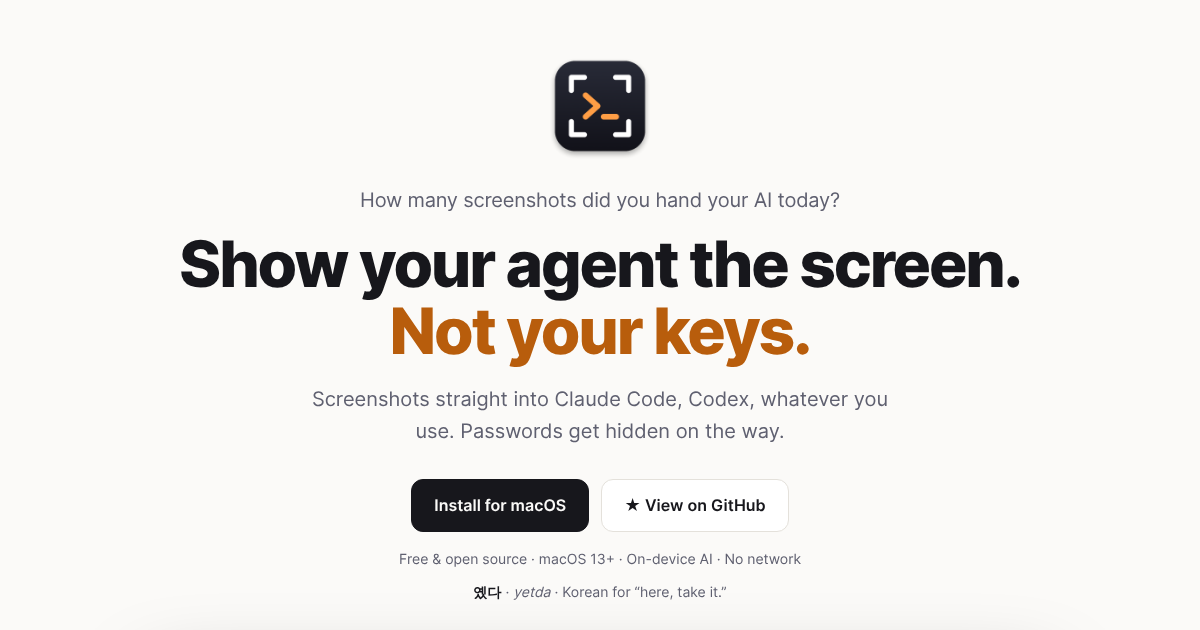
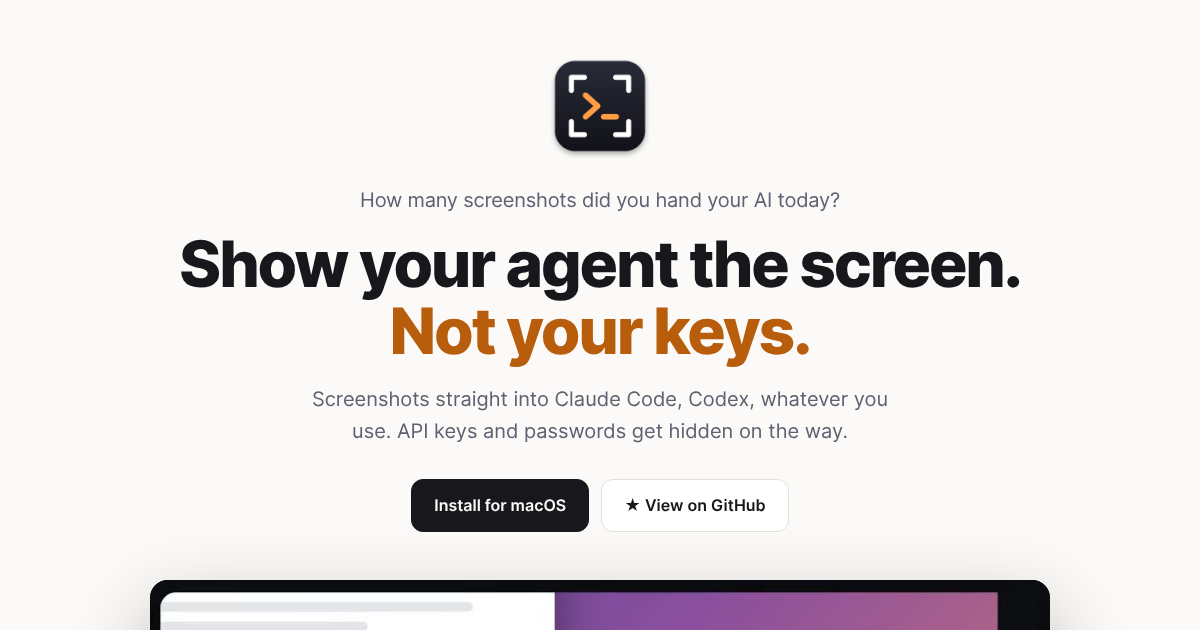
Name API keys in the hero and the secrets section
Claude-Session: https://claude.ai/code/session_01Fvs9D4jfzzeqk41wXqDAkK

Changed region(s): [[0.1233, 0.8746, 0.8942, 1.0], [0.2775, 0.6635, 0.7092, 0.6937]]

diff --git a/docs/ja/index.html b/docs/ja/index.html
@@ -380,7 +380,7 @@
     <img class="logo" src="../icon.png" alt="Yetdaのアイコン">
     <p class="hook">今日、AIに何枚スクショを渡しましたか？</p>
     <h1>画面は見せて、<br><span class="hl">鍵は隠す。</span></h1>
-    <p class="sub">Claude CodeでもCodexでも、スクショをそのまま貼れるMacアプリ。パスワードは自動で隠します。</p>
+    <p class="sub">Claude CodeでもCodexでも、スクショをそのまま貼れるMacアプリ。APIキーやパスワードは自動で隠します。</p>
     <div class="cta">
       <a class="btn primary" href="#install">macOSにインストール</a>
       <a class="btn" href="https://github.com/woonmayer/yetda">★ GitHubで見る</a>
@@ -405,7 +405,7 @@
 
   <section id="secrets" class="show">
     <h2>パスワードは隠します。</h2>
-    <p class="lead">Macの中で、渡す前に。</p>
+    <p class="lead">APIキーが写っていても大丈夫。Macの中で先に隠します。</p>
     <video class="clip v" data-src="../clip-mask.mp4" poster="../clip-mask-poster.jpg" muted loop playsinline preload="none" aria-hidden="true"></video>
   </section>
 

diff --git a/docs/ko/index.html b/docs/ko/index.html
@@ -380,7 +380,7 @@
     <img class="logo" src="../icon.png" alt="Yetda 아이콘">
     <p class="hook">오늘 AI한테 스크린샷 몇 장 넘기셨어요?</p>
     <h1>옜다, 화면.<br><span class="hl">비번은 빼고.</span></h1>
-    <p class="sub">Claude Code든 Codex든, 스크린샷을 바로 붙여 주는 맥 앱. 비번은 알아서 가려요.</p>
+    <p class="sub">Claude Code든 Codex든, 스크린샷을 바로 붙여 주는 맥 앱. API 키·비번은 알아서 가려요.</p>
     <div class="cta">
       <a class="btn primary" href="#install">macOS에 설치</a>
       <a class="btn" href="https://github.com/woonmayer/yetda">★ GitHub에서 보기</a>
@@ -405,7 +405,7 @@
 
   <section id="secrets" class="show">
     <h2>비번은 알아서 가려요.</h2>
-    <p class="lead">맥 안에서, 보내기 전에.</p>
+    <p class="lead">API 키가 찍혀도 괜찮아요. 맥 안에서 먼저 가려요.</p>
     <video class="clip v" data-src="../clip-mask.mp4" poster="../clip-mask-poster.jpg" muted loop playsinline preload="none" aria-hidden="true"></video>
   </section>
 

diff --git a/docs/index.html b/docs/index.html
@@ -380,7 +380,7 @@
     <img class="logo" src="icon.png" alt="Yetda icon">
     <p class="hook">How many screenshots did you hand your AI today?</p>
     <h1>Show your agent the screen.<br><span class="hl">Not your keys.</span></h1>
-    <p class="sub">Screenshots straight into Claude Code, Codex, whatever you use. Passwords get hidden on the way.</p>
+    <p class="sub">Screenshots straight into Claude Code, Codex, whatever you use. API keys and passwords get hidden on the way.</p>
     <div class="cta">
       <a class="btn primary" href="#install">Install for macOS</a>
       <a class="btn" href="https://github.com/woonmayer/yetda">★ View on GitHub</a>
@@ -405,7 +405,7 @@
 
   <section id="secrets" class="show">
     <h2>Passwords? Hidden.</h2>
-    <p class="lead">On your Mac, before anything leaves it.</p>
+    <p class="lead">API key in the shot? Fine. It's hidden on your Mac first.</p>
     <video class="clip v" data-src="clip-mask.mp4" poster="clip-mask-poster.jpg" muted loop playsinline preload="none" aria-hidden="true"></video>
   </section>
 
